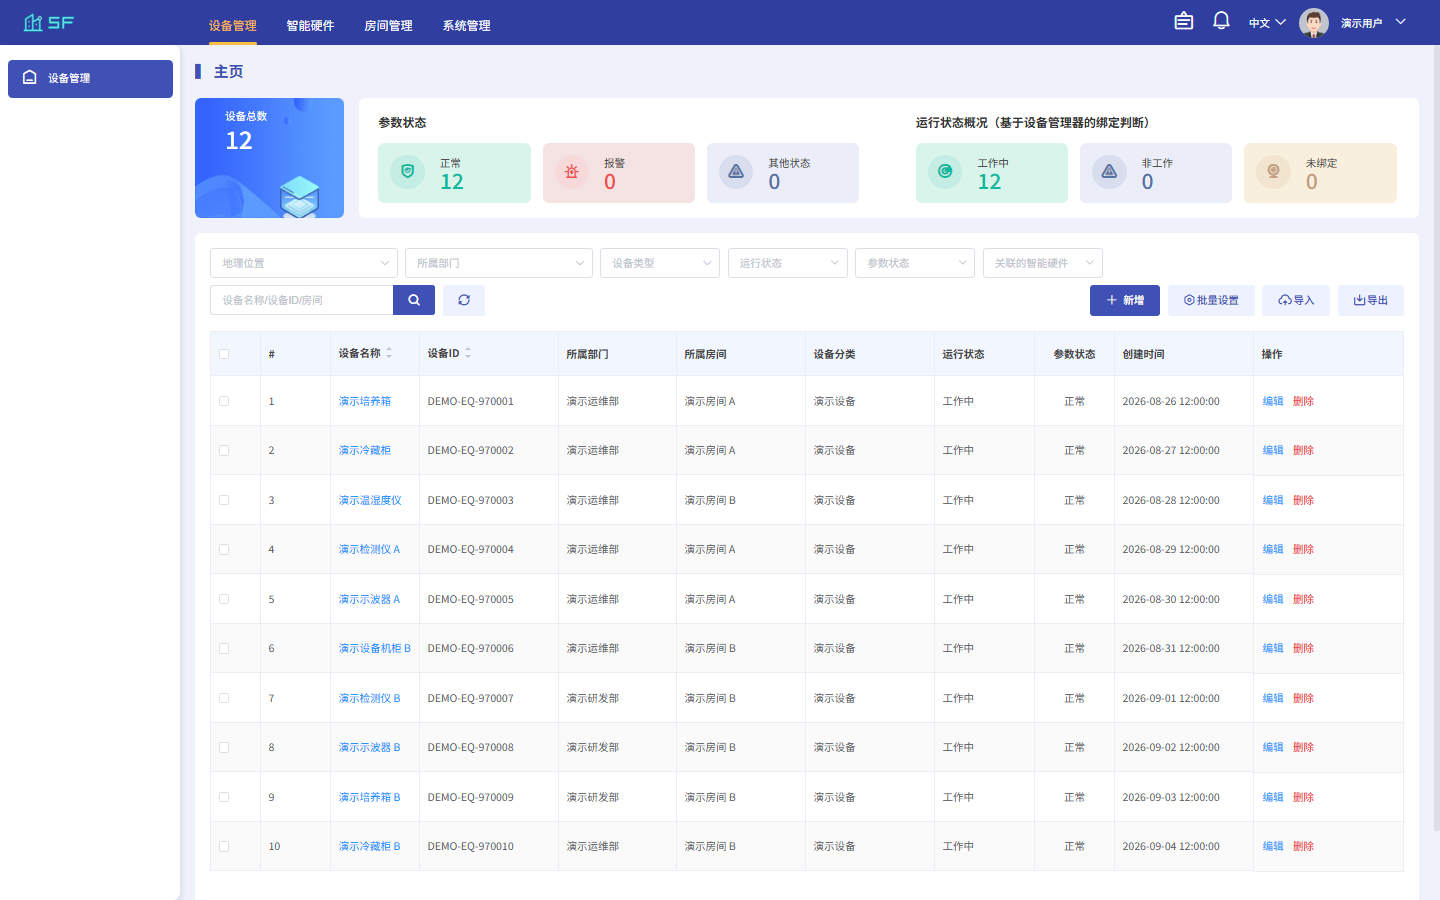
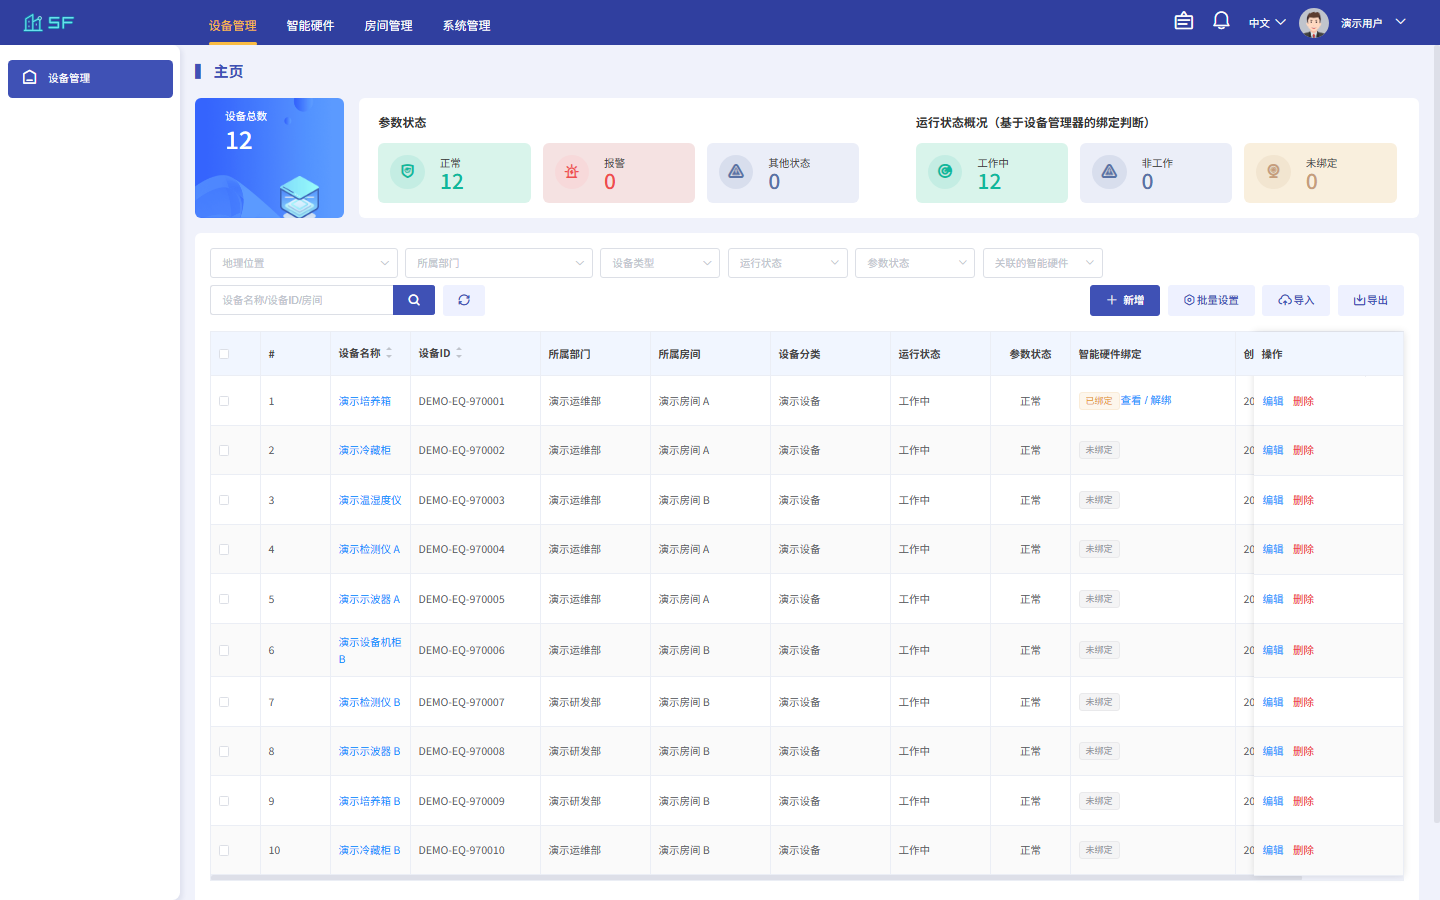
fix: 展示设备硬件绑定状态并明确解绑后删除流程

diff --git a/smart-facility-platform/src/views/labDevice/index.vue b/smart-facility-platform/src/views/labDevice/index.vue
@@ -192,7 +192,7 @@
                                         <div class="table-default">
                                             <SelfTable
                                                 ref="multipleTable"
-                                                :columns="TABLECOLUMN"
+                                                :columns="deviceTableColumns"
                                                 v-loading="loading"
                                                 :defaultSort="defaultSort"
                                                 :loading="refreshLoading"
@@ -267,6 +267,14 @@
                                                     </span>
                                                     </template>
                                                 </el-table-column>
+                                                <el-table-column v-if="isDemo" slot="boundHardware" label="智能硬件绑定" width="165">
+                                                    <template slot-scope="scope">
+                                                        <el-tag size="small" :type="scope.row.boundHardware ? 'warning' : 'info'">
+                                                            {{ scope.row.boundHardware ? '已绑定' : '未绑定' }}
+                                                        </el-tag>
+                                                        <el-button v-if="scope.row.boundHardware" type="text" @click="handleSeedDetail(scope.row)">查看 / 解绑</el-button>
+                                                    </template>
+                                                </el-table-column>
                                                 <el-table-column
                                                     slot="createDate"
                                                     :label="$t('common.creatDate')"
@@ -291,6 +299,8 @@
                                                         <el-button
                                                             class="abnormal"
                                                             type="text"
+                                                            :disabled="isDemo && scope.row.boundHardware"
+                                                            :title="isDemo && scope.row.boundHardware ? '请先通过查看 / 解绑解除智能硬件绑定' : ''"
                                                             @click="handleDelete(scope.row)"
                                                         >{{ $t('common.delete') }}
                                                         </el-button>
@@ -992,6 +1002,10 @@ export default {
         },
         // 批量删除
         handleBatchDeleteDevice() {
+            if (this.isDemo && this.multipleSelection.some(row => row.boundHardware)) {
+                this.$message.warning('所选设备包含已绑定智能硬件的设备，请先解绑后删除。');
+                return;
+            }
             this.form.ids = []
             for (var i = 0; i < this.multipleSelection.length; i++) {
                 this.form.ids.push(this.multipleSelection[i].id)
@@ -1218,6 +1232,15 @@ export default {
         }
     },
     computed: {
+        deviceTableColumns() {
+            if (!this.isDemo) return this.TABLECOLUMN;
+            const columns = this.TABLECOLUMN.slice();
+            const index = columns.findIndex(item => item.dataIndex === 'createDate');
+            columns.splice(index < 0 ? columns.length : index, 0, {
+                title: '智能硬件绑定', dataIndex: 'boundHardware', slot: 'boundHardware'
+            });
+            return columns;
+        },
         ...mapState('lab', {
             modalVisible: 'modalVisible',
             isReflesh: 'isReflesh',

diff --git a/smart-facility-platform/src/views/labDevice/components/LabDeviceDrawer.vue b/smart-facility-platform/src/views/labDevice/components/LabDeviceDrawer.vue
@@ -158,7 +158,7 @@
                                 </el-link>
                             </el-descriptions-item>
                             <el-descriptions-item v-if="isDemo" :label="$t('labDevice.bindDevice')">
-                                <span v-if="!detail.boundHardware">{{ $t('common.notMessage') }}</span>
+                                <span v-if="!detail.boundHardware">未绑定</span>
                                 <template v-else>
                                     <span class="abnormal">已绑定智能硬件</span>
                                     <el-link type="primary" :underline="false" @click="handleUnbindHardware">

diff --git a/docs/review-device-management-module.md b/docs/review-device-management-module.md
@@ -1,0 +1,31 @@
+# 设备管理模块复盘（2026-10-01）
+
+## 结论与范围
+
+检查2A–2H当前源码、Mock、页面及现有测试；22套126项单测通过。核心登记、查询、导入预览确认、导出、单删/批删、绑定解绑已接通。不能将目录中的预约、维保和全部字段表单都算作已完成。未运行全站回归或生产构建。
+
+## 本轮修复
+
+列表接口已有boundHardware，但没有对应列，删除一直可点；详情解绑会emit instrument-updated刷新列表。修复src/views/labDevice/index.vue：演示模式新增智能硬件绑定列，已绑定→查看/解绑+禁用删除，未绑定→可删除；批量删除包含绑定行时先明确提示。src/views/labDevice/components/LabDeviceDrawer.vue未绑定状态改为明确文案。参数状态与绑定状态分开；服务端单删和批删守卫仍保留。
+
+## 各链路核实
+
+| 链路 | 实际范围与依据 |
+| --- | --- |
+| 列表/筛选/详情 | labDevice/index.vue；fixtures/instrument.js listInstruments/buildInstrumentRow/getDemoInstrumentDetail，共享实体与状态场景 |
+| 新增 | labDevice/modal.vue→/instrument/add→addDemoInstrument；仅名称、部门、分类、房间持久化，与导入共用ID池 |
+| 编辑 | updateInstrumentBasic：名称、部门、分类；不等于全部详情字段可编辑 |
+| 导入 | ImportFile/index.vue；instrumentWorkbook.js；previewDemoInstruments/buildInstrumentImportPlan/importDemoInstruments，预览不写入，确认重新校验 |
+| 导出 | handleExport→/instrument/export→exportDemoInstruments，按当前筛选导出完整集合，不受分页限制 |
+| 删除 | removeInstrument/batchRemoveInstruments：绑定守卫与tombstone；剪布局，已删除不再进入活跃目录 |
+| 解绑 | equipment.js unbindInstrumentHardware：清除该设备全部type=4关系，详情通知列表刷新；不自动删除 |
+| 空间布局 | 新增/导入标记imported，不自动上图；不可声称新增后布局链路已完整 |
+
+## 尚需收尾的两处问题（静态源码发现）
+
+1. P2 新增表单范围不一致：labDevice/modal.vue仍允许输入编号、工作时长等字段；addDemoInstrument只保存四字段，buildInstrumentRow又给编号、时长等生成或固定值。用户可能提交成功后发现输入丢失。建议演示表单只开放已支持字段，自动编号只读说明，其余隐藏或明确不可编辑，不扩展全部业务。
+2. P2 同房间重名规则不一致：addDemoInstrument和buildInstrumentImportPlan做查重，updateInstrumentBasic没有排除自身后的同房间查重。建议复用校验逻辑并补改名冲突测试。
+
+## 验证边界
+
+2H浏览器脚本本轮新增DOM列文案及按钮禁用断言，移除确认框替换与解绑后的手动列表刷新。绑定初始数据仍由本地演示存储设置，未覆盖硬件页面点选绑定的完整跨模块路径。最终浏览器结果及截图见STATUS最新记录。未提交推送。

diff --git a/docs/STATUS.md b/docs/STATUS.md
@@ -1631,3 +1631,15 @@
 
 - 本轮停止。下一提示词：`docs/next-task-prompt.md`。未执行。未暂存/提交/推送。
 - 建议 commit：`feat: 接通设备管理绑定解绑与删除守卫`。
+
+
+## 设备管理整体复盘及绑定可见性修复（2026-10-01）
+
+- 起点Git干净，HEAD 7a2afb5。复盘列表/详情/新增/编辑/导入预览确认/导出/单删批删/解绑；报告review-device-management-module.md。
+- 根因：boundHardware已存在且解绑成功会通知列表刷新，但表格没展示绑定状态，删除按钮也没禁用。
+- 修改labDevice/index.vue：演示专用智能硬件绑定列，已绑定提供查看/解绑入口并禁用删除；未绑定恢复删除；批删含绑定项提前提示。LabDeviceDrawer.vue未绑定明确说明可返回列表删除。保留Mock最终删除守卫。
+- 修改check-demo-device-2h.cjs：校验真实DOM状态及按钮，真实确认框点击，移除解绑后手动刷新；初始绑定仍由演示存储构造，不代表跨硬件页面绑定路径已验收。
+- 验证：22套126项单测通过；8090演示编译成功；最终2H浏览器验收通过externalAttempts=0，解绑后自动刷新并恢复删除，随后确认删除成功；git diff --check通过。截图见evidence/device-management-2h。中间脚本因等待条件返回DOM无法按值传递而超时，改显式布尔条件后通过，不能据此认为业务确认框故障。
+- 未验证：生产构建、全站回归、其他设备管理浏览器脚本，本轮未重复运行；编辑重名与新增表单字段问题为静态源码发现。
+- 待收尾：新增表单可填但不持久化的字段需收口；编辑应同房间查重并排除自身。已更新next-task-prompt.md，只处理这两项，暂不跳其它模块。
+- 未提交推送。建议commit：fix: 展示设备硬件绑定状态并明确解绑后删除流程。

diff --git a/docs/next-task-prompt.md b/docs/next-task-prompt.md
@@ -1,13 +1,9 @@
-# 下一任务：其它模块或演示收口
+# 下一任务：设备管理表单与校验收尾
 
-请直接执行本任务，不只写方案。工作区 E:\project\smart-facility-original；仅修改 smart-facility-platform 和 docs。先读 PROJECT_CONTEXT.md、STATUS.md 文末，检查 Git 状态。保留已有未提交改动，不重复重做 Logo、智能硬件或设备管理 2A–2H。
+先读PROJECT_CONTEXT.md、STATUS.md文末及review-device-management-module.md，检查Git状态，保留本轮未提交改动。不提交推送、不访问旧服务、不升级Vue2。
 
-## 本轮目标
-设备管理写路径（编辑/单删/导入/导出/批量删除/新增/解绑）已齐；绑定后不可删已落地。本轮按 STATUS/PRODUCT 优先选题（预约、维保、其它模块，或全站 demo-guide 终态收口）。只做一项，完成后停止。
+只处理复盘报告剩余两项：
+1. 演示新增表单只开放已支持的名称、部门、分类、房间；自动编号明确只读，其余未持久化字段不允许误填后假保存，保留非演示行为。
+2. 编辑改名应用与新增/导入一致的同房间重名规则，排除自身；补测试覆盖改名冲突、原名保存、不同房间可同名。
 
-## 已核实
-- 2A–2H 已开放；`batch/update` 仍拒绝。
-- 解绑清 `equipmentBindings`；删除/批量删复用绑定守卫。
-
-## 交付与停止
-STATUS 文末复盘；给出 commit 信息后停止，不暂存/提交/推送。
+验收真实页面新增后值一致、失败不写、编辑重名阻止；复跑demo单测和相关浏览器验收。更新STATUS/契约/指南，报告未验证项，提供commit信息后停止，不扩展预约、维保或其他模块。
